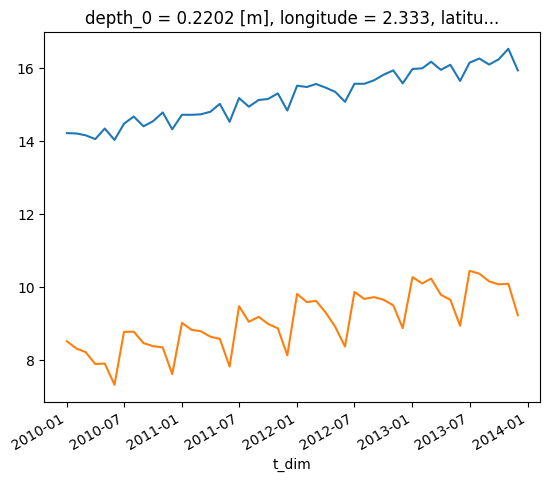
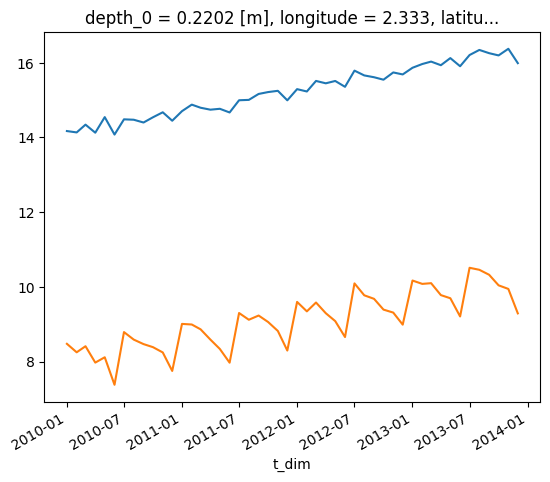
Updated General notebook pages from coast repo.

diff --git a/content/en/docs/Examples/Notebooks/General/seasonal_decomp_example.md b/content/en/docs/Examples/Notebooks/General/seasonal_decomp_example.md
@@ -86,7 +86,7 @@ temperature[0,0,:,:].plot()
 
 
 
-    <matplotlib.collections.QuadMesh at 0x7f3230767eb0>
+    <matplotlib.collections.QuadMesh at 0x7fad688f7370>
 
 
 
@@ -107,7 +107,7 @@ temperature[:,0,200,200].plot()
 
 
 
-    [<matplotlib.lines.Line2D at 0x7f32305b16a0>]
+    [<matplotlib.lines.Line2D at 0x7fad68732be0>]
 
 
 
@@ -513,7 +513,7 @@ Dimensions without coordinates: z_dim, y_dim, x_dim
 Data variables:
     trend      (t_dim, z_dim, y_dim, x_dim) float64 nan nan nan ... nan nan nan
     seasonal   (t_dim, z_dim, y_dim, x_dim) float64 nan nan nan ... nan nan nan
-    residual   (t_dim, z_dim, y_dim, x_dim) float64 nan nan nan ... nan nan nan</pre><div class='xr-wrap' style='display:none'><div class='xr-header'><div class='xr-obj-type'>xarray.Dataset</div></div><ul class='xr-sections'><li class='xr-section-item'><input id='section-5b4063de-c1c6-4285-b1a2-b9552f2a18a7' class='xr-section-summary-in' type='checkbox' disabled ><label for='section-5b4063de-c1c6-4285-b1a2-b9552f2a18a7' class='xr-section-summary'  title='Expand/collapse section'>Dimensions:</label><div class='xr-section-inline-details'><ul class='xr-dim-list'><li><span class='xr-has-index'>t_dim</span>: 48</li><li><span>z_dim</span>: 2</li><li><span>y_dim</span>: 375</li><li><span>x_dim</span>: 297</li></ul></div><div class='xr-section-details'></div></li><li class='xr-section-item'><input id='section-a6a2502f-92a2-48fd-a506-b02629f9eb0a' class='xr-section-summary-in' type='checkbox'  checked><label for='section-a6a2502f-92a2-48fd-a506-b02629f9eb0a' class='xr-section-summary' >Coordinates: <span>(4)</span></label><div class='xr-section-inline-details'></div><div class='xr-section-details'><ul class='xr-var-list'><li class='xr-var-item'><div class='xr-var-name'><span class='xr-has-index'>t_dim</span></div><div class='xr-var-dims'>(t_dim)</div><div class='xr-var-dtype'>datetime64[ns]</div><div class='xr-var-preview xr-preview'>2010-01-01 ... 2013-12-01</div><input id='attrs-55a93f69-85a4-47ee-a191-5650a3818a13' class='xr-var-attrs-in' type='checkbox' disabled><label for='attrs-55a93f69-85a4-47ee-a191-5650a3818a13' title='Show/Hide attributes'><svg class='icon xr-icon-file-text2'><use xlink:href='#icon-file-text2'></use></svg></label><input id='data-7fc3d4ff-62d7-4826-a5ba-f9428791652c' class='xr-var-data-in' type='checkbox'><label for='data-7fc3d4ff-62d7-4826-a5ba-f9428791652c' title='Show/Hide data repr'><svg class='icon xr-icon-database'><use xlink:href='#icon-database'></use></svg></label><div class='xr-var-attrs'><dl class='xr-attrs'></dl></div><div class='xr-var-data'><pre>array([&#x27;2010-01-01T00:00:00.000000000&#x27;, &#x27;2010-02-01T00:00:00.000000000&#x27;,
+    residual   (t_dim, z_dim, y_dim, x_dim) float64 nan nan nan ... nan nan nan</pre><div class='xr-wrap' style='display:none'><div class='xr-header'><div class='xr-obj-type'>xarray.Dataset</div></div><ul class='xr-sections'><li class='xr-section-item'><input id='section-9a53614a-b17a-4e11-8e49-2e4498afccb7' class='xr-section-summary-in' type='checkbox' disabled ><label for='section-9a53614a-b17a-4e11-8e49-2e4498afccb7' class='xr-section-summary'  title='Expand/collapse section'>Dimensions:</label><div class='xr-section-inline-details'><ul class='xr-dim-list'><li><span class='xr-has-index'>t_dim</span>: 48</li><li><span>z_dim</span>: 2</li><li><span>y_dim</span>: 375</li><li><span>x_dim</span>: 297</li></ul></div><div class='xr-section-details'></div></li><li class='xr-section-item'><input id='section-b674655c-183f-48c9-b9ae-85b54980f654' class='xr-section-summary-in' type='checkbox'  checked><label for='section-b674655c-183f-48c9-b9ae-85b54980f654' class='xr-section-summary' >Coordinates: <span>(4)</span></label><div class='xr-section-inline-details'></div><div class='xr-section-details'><ul class='xr-var-list'><li class='xr-var-item'><div class='xr-var-name'><span class='xr-has-index'>t_dim</span></div><div class='xr-var-dims'>(t_dim)</div><div class='xr-var-dtype'>datetime64[ns]</div><div class='xr-var-preview xr-preview'>2010-01-01 ... 2013-12-01</div><input id='attrs-3d59f854-8b32-4ab8-88f6-3f6c4d7606b1' class='xr-var-attrs-in' type='checkbox' disabled><label for='attrs-3d59f854-8b32-4ab8-88f6-3f6c4d7606b1' title='Show/Hide attributes'><svg class='icon xr-icon-file-text2'><use xlink:href='#icon-file-text2'></use></svg></label><input id='data-1ee12c3d-2f89-483e-bb2e-12c6e25556ea' class='xr-var-data-in' type='checkbox'><label for='data-1ee12c3d-2f89-483e-bb2e-12c6e25556ea' title='Show/Hide data repr'><svg class='icon xr-icon-database'><use xlink:href='#icon-database'></use></svg></label><div class='xr-var-attrs'><dl class='xr-attrs'></dl></div><div class='xr-var-data'><pre>array([&#x27;2010-01-01T00:00:00.000000000&#x27;, &#x27;2010-02-01T00:00:00.000000000&#x27;,
        &#x27;2010-03-01T00:00:00.000000000&#x27;, &#x27;2010-04-01T00:00:00.000000000&#x27;,
        &#x27;2010-05-01T00:00:00.000000000&#x27;, &#x27;2010-06-01T00:00:00.000000000&#x27;,
        &#x27;2010-07-01T00:00:00.000000000&#x27;, &#x27;2010-08-01T00:00:00.000000000&#x27;,
@@ -537,7 +537,7 @@ Data variables:
        &#x27;2013-07-01T00:00:00.000000000&#x27;, &#x27;2013-08-01T00:00:00.000000000&#x27;,
        &#x27;2013-09-01T00:00:00.000000000&#x27;, &#x27;2013-10-01T00:00:00.000000000&#x27;,
        &#x27;2013-11-01T00:00:00.000000000&#x27;, &#x27;2013-12-01T00:00:00.000000000&#x27;],
-      dtype=&#x27;datetime64[ns]&#x27;)</pre></div></li><li class='xr-var-item'><div class='xr-var-name'><span>depth_0</span></div><div class='xr-var-dims'>(z_dim, y_dim, x_dim)</div><div class='xr-var-dtype'>float32</div><div class='xr-var-preview xr-preview'>0.5 0.5 0.5 0.5 ... 1.5 1.5 1.5 1.5</div><input id='attrs-10650ccd-004a-4578-b836-8634a7bf8c04' class='xr-var-attrs-in' type='checkbox' ><label for='attrs-10650ccd-004a-4578-b836-8634a7bf8c04' title='Show/Hide attributes'><svg class='icon xr-icon-file-text2'><use xlink:href='#icon-file-text2'></use></svg></label><input id='data-5a8c1067-9d22-4823-8921-8b444fb62f56' class='xr-var-data-in' type='checkbox'><label for='data-5a8c1067-9d22-4823-8921-8b444fb62f56' title='Show/Hide data repr'><svg class='icon xr-icon-database'><use xlink:href='#icon-database'></use></svg></label><div class='xr-var-attrs'><dl class='xr-attrs'><dt><span>units :</span></dt><dd>m</dd><dt><span>standard_name :</span></dt><dd>Depth at time zero on the t-grid</dd></dl></div><div class='xr-var-data'><pre>array([[[0.5       , 0.5       , 0.5       , ..., 0.5       ,
+      dtype=&#x27;datetime64[ns]&#x27;)</pre></div></li><li class='xr-var-item'><div class='xr-var-name'><span>depth_0</span></div><div class='xr-var-dims'>(z_dim, y_dim, x_dim)</div><div class='xr-var-dtype'>float32</div><div class='xr-var-preview xr-preview'>0.5 0.5 0.5 0.5 ... 1.5 1.5 1.5 1.5</div><input id='attrs-328dbbc6-a132-4e90-bfa0-b6403dd4140d' class='xr-var-attrs-in' type='checkbox' ><label for='attrs-328dbbc6-a132-4e90-bfa0-b6403dd4140d' title='Show/Hide attributes'><svg class='icon xr-icon-file-text2'><use xlink:href='#icon-file-text2'></use></svg></label><input id='data-8e2b34e1-20d1-4df3-bc96-fc9ef545d17d' class='xr-var-data-in' type='checkbox'><label for='data-8e2b34e1-20d1-4df3-bc96-fc9ef545d17d' title='Show/Hide data repr'><svg class='icon xr-icon-database'><use xlink:href='#icon-database'></use></svg></label><div class='xr-var-attrs'><dl class='xr-attrs'><dt><span>units :</span></dt><dd>m</dd><dt><span>standard_name :</span></dt><dd>Depth at time zero on the t-grid</dd></dl></div><div class='xr-var-data'><pre>array([[[0.5       , 0.5       , 0.5       , ..., 0.5       ,
          0.5       , 0.5       ],
         [0.5       , 0.4975586 , 0.4975586 , ..., 0.10009766,
          0.10009766, 0.5       ],
@@ -563,7 +563,7 @@ Data variables:
         [1.5       , 0.30029297, 0.30029297, ..., 0.30029297,
          0.30029297, 1.5       ],
         [1.5       , 1.5       , 1.5       , ..., 1.5       ,
-         1.5       , 1.5       ]]], dtype=float32)</pre></div></li><li class='xr-var-item'><div class='xr-var-name'><span>longitude</span></div><div class='xr-var-dims'>(y_dim, x_dim)</div><div class='xr-var-dtype'>float32</div><div class='xr-var-preview xr-preview'>-19.89 -19.78 -19.67 ... 12.89 13.0</div><input id='attrs-0774c421-c2a1-4bdf-91bb-cef4fae1c55b' class='xr-var-attrs-in' type='checkbox' disabled><label for='attrs-0774c421-c2a1-4bdf-91bb-cef4fae1c55b' title='Show/Hide attributes'><svg class='icon xr-icon-file-text2'><use xlink:href='#icon-file-text2'></use></svg></label><input id='data-5a41db67-5cb4-4c59-b3b5-b7672e91c238' class='xr-var-data-in' type='checkbox'><label for='data-5a41db67-5cb4-4c59-b3b5-b7672e91c238' title='Show/Hide data repr'><svg class='icon xr-icon-database'><use xlink:href='#icon-database'></use></svg></label><div class='xr-var-attrs'><dl class='xr-attrs'></dl></div><div class='xr-var-data'><pre>array([[-19.888672, -19.777344, -19.666992, ...,  12.777344,  12.888672,
+         1.5       , 1.5       ]]], dtype=float32)</pre></div></li><li class='xr-var-item'><div class='xr-var-name'><span>longitude</span></div><div class='xr-var-dims'>(y_dim, x_dim)</div><div class='xr-var-dtype'>float32</div><div class='xr-var-preview xr-preview'>-19.89 -19.78 -19.67 ... 12.89 13.0</div><input id='attrs-7f60222c-3e94-4bce-b18e-4366d7eba874' class='xr-var-attrs-in' type='checkbox' disabled><label for='attrs-7f60222c-3e94-4bce-b18e-4366d7eba874' title='Show/Hide attributes'><svg class='icon xr-icon-file-text2'><use xlink:href='#icon-file-text2'></use></svg></label><input id='data-36b18d7b-c2fe-4b39-80c2-059b82d08724' class='xr-var-data-in' type='checkbox'><label for='data-36b18d7b-c2fe-4b39-80c2-059b82d08724' title='Show/Hide data repr'><svg class='icon xr-icon-database'><use xlink:href='#icon-database'></use></svg></label><div class='xr-var-attrs'><dl class='xr-attrs'></dl></div><div class='xr-var-data'><pre>array([[-19.888672, -19.777344, -19.666992, ...,  12.777344,  12.888672,
          13.      ],
        [-19.888672, -19.777344, -19.666992, ...,  12.777344,  12.888672,
          13.      ],
@@ -575,7 +575,7 @@ Data variables:
        [-19.888672, -19.777344, -19.666992, ...,  12.777344,  12.888672,
          13.      ],
        [-19.888672, -19.777344, -19.666992, ...,  12.777344,  12.888672,
-         13.      ]], dtype=float32)</pre></div></li><li class='xr-var-item'><div class='xr-var-name'><span>latitude</span></div><div class='xr-var-dims'>(y_dim, x_dim)</div><div class='xr-var-dtype'>float32</div><div class='xr-var-preview xr-preview'>40.07 40.07 40.07 ... 65.0 65.0</div><input id='attrs-09a5b280-82fe-40dc-9d99-70ef05295f55' class='xr-var-attrs-in' type='checkbox' disabled><label for='attrs-09a5b280-82fe-40dc-9d99-70ef05295f55' title='Show/Hide attributes'><svg class='icon xr-icon-file-text2'><use xlink:href='#icon-file-text2'></use></svg></label><input id='data-8034681c-4ce4-40e9-8181-998c7b543cbf' class='xr-var-data-in' type='checkbox'><label for='data-8034681c-4ce4-40e9-8181-998c7b543cbf' title='Show/Hide data repr'><svg class='icon xr-icon-database'><use xlink:href='#icon-database'></use></svg></label><div class='xr-var-attrs'><dl class='xr-attrs'></dl></div><div class='xr-var-data'><pre>array([[40.066406, 40.066406, 40.066406, ..., 40.066406, 40.066406,
+         13.      ]], dtype=float32)</pre></div></li><li class='xr-var-item'><div class='xr-var-name'><span>latitude</span></div><div class='xr-var-dims'>(y_dim, x_dim)</div><div class='xr-var-dtype'>float32</div><div class='xr-var-preview xr-preview'>40.07 40.07 40.07 ... 65.0 65.0</div><input id='attrs-10417e07-8bd2-4e39-9b8f-83a105df66ca' class='xr-var-attrs-in' type='checkbox' disabled><label for='attrs-10417e07-8bd2-4e39-9b8f-83a105df66ca' title='Show/Hide attributes'><svg class='icon xr-icon-file-text2'><use xlink:href='#icon-file-text2'></use></svg></label><input id='data-87c465fe-e360-4a72-bd39-715e9689cc9f' class='xr-var-data-in' type='checkbox'><label for='data-87c465fe-e360-4a72-bd39-715e9689cc9f' title='Show/Hide data repr'><svg class='icon xr-icon-database'><use xlink:href='#icon-database'></use></svg></label><div class='xr-var-attrs'><dl class='xr-attrs'></dl></div><div class='xr-var-data'><pre>array([[40.066406, 40.066406, 40.066406, ..., 40.066406, 40.066406,
         40.066406],
        [40.13379 , 40.13379 , 40.13379 , ..., 40.13379 , 40.13379 ,
         40.13379 ],
@@ -587,11 +587,11 @@ Data variables:
        [64.93457 , 64.93457 , 64.93457 , ..., 64.93457 , 64.93457 ,
         64.93457 ],
        [65.00098 , 65.00098 , 65.00098 , ..., 65.00098 , 65.00098 ,
-        65.00098 ]], dtype=float32)</pre></div></li></ul></div></li><li class='xr-section-item'><input id='section-19c1b647-0f5a-4be5-9ab6-03a143c9d129' class='xr-section-summary-in' type='checkbox'  checked><label for='section-19c1b647-0f5a-4be5-9ab6-03a143c9d129' class='xr-section-summary' >Data variables: <span>(3)</span></label><div class='xr-section-inline-details'></div><div class='xr-section-details'><ul class='xr-var-list'><li class='xr-var-item'><div class='xr-var-name'><span>trend</span></div><div class='xr-var-dims'>(t_dim, z_dim, y_dim, x_dim)</div><div class='xr-var-dtype'>float64</div><div class='xr-var-preview xr-preview'>nan nan nan nan ... nan nan nan nan</div><input id='attrs-649c2ddc-0445-4381-867e-8a8f38172605' class='xr-var-attrs-in' type='checkbox' disabled><label for='attrs-649c2ddc-0445-4381-867e-8a8f38172605' title='Show/Hide attributes'><svg class='icon xr-icon-file-text2'><use xlink:href='#icon-file-text2'></use></svg></label><input id='data-1b1a5c30-c3bb-416b-8e98-1166556a6672' class='xr-var-data-in' type='checkbox'><label for='data-1b1a5c30-c3bb-416b-8e98-1166556a6672' title='Show/Hide data repr'><svg class='icon xr-icon-database'><use xlink:href='#icon-database'></use></svg></label><div class='xr-var-attrs'><dl class='xr-attrs'></dl></div><div class='xr-var-data'><pre>array([[[[        nan,         nan,         nan, ...,         nan,
+        65.00098 ]], dtype=float32)</pre></div></li></ul></div></li><li class='xr-section-item'><input id='section-8f862f24-df27-46d8-80e7-75d55375ce6d' class='xr-section-summary-in' type='checkbox'  checked><label for='section-8f862f24-df27-46d8-80e7-75d55375ce6d' class='xr-section-summary' >Data variables: <span>(3)</span></label><div class='xr-section-inline-details'></div><div class='xr-section-details'><ul class='xr-var-list'><li class='xr-var-item'><div class='xr-var-name'><span>trend</span></div><div class='xr-var-dims'>(t_dim, z_dim, y_dim, x_dim)</div><div class='xr-var-dtype'>float64</div><div class='xr-var-preview xr-preview'>nan nan nan nan ... nan nan nan nan</div><input id='attrs-f745887b-48f5-48a1-abe2-ff3b0f85e9ae' class='xr-var-attrs-in' type='checkbox' disabled><label for='attrs-f745887b-48f5-48a1-abe2-ff3b0f85e9ae' title='Show/Hide attributes'><svg class='icon xr-icon-file-text2'><use xlink:href='#icon-file-text2'></use></svg></label><input id='data-b22c8040-c77f-43cd-8801-0250910d86e5' class='xr-var-data-in' type='checkbox'><label for='data-b22c8040-c77f-43cd-8801-0250910d86e5' title='Show/Hide data repr'><svg class='icon xr-icon-database'><use xlink:href='#icon-database'></use></svg></label><div class='xr-var-attrs'><dl class='xr-attrs'></dl></div><div class='xr-var-data'><pre>array([[[[        nan,         nan,         nan, ...,         nan,
                   nan,         nan],
-         [        nan, 15.26907711, 15.2658219 , ...,         nan,
+         [        nan, 15.41700162, 15.41374641, ...,         nan,
                   nan,         nan],
-         [        nan, 15.2580094 , 15.42581539, ...,         nan,
+         [        nan, 15.40593391, 15.5737399 , ...,         nan,
                   nan,         nan],
          ...,
          [        nan,         nan,         nan, ...,         nan,
@@ -603,9 +603,9 @@ Data variables:
 
         [[        nan,         nan,         nan, ...,         nan,
                   nan,         nan],
-         [        nan, 15.26810054, 15.2650081 , ...,         nan,
+         [        nan, 15.41602506, 15.41293261, ...,         nan,
                   nan,         nan],
-         [        nan, 15.25687007, 15.42972164, ...,         nan,
+         [        nan, 15.40479459, 15.57764615, ...,         nan,
                   nan,         nan],
 ...
          [        nan,         nan,         nan, ...,         nan,
@@ -617,9 +617,9 @@ Data variables:
 
         [[        nan,         nan,         nan, ...,         nan,
                   nan,         nan],
-         [        nan, 17.48501602, 17.48192357, ...,         nan,
+         [        nan, 17.6710319 , 17.66793945, ...,         nan,
                   nan,         nan],
-         [        nan, 17.47378555, 17.64663711, ...,         nan,
+         [        nan, 17.65980143, 17.83265299, ...,         nan,
                   nan,         nan],
          ...,
          [        nan,         nan,         nan, ...,         nan,
@@ -627,11 +627,11 @@ Data variables:
          [        nan,         nan,         nan, ...,         nan,
                   nan,         nan],
          [        nan,         nan,         nan, ...,         nan,
-                  nan,         nan]]]])</pre></div></li><li class='xr-var-item'><div class='xr-var-name'><span>seasonal</span></div><div class='xr-var-dims'>(t_dim, z_dim, y_dim, x_dim)</div><div class='xr-var-dtype'>float64</div><div class='xr-var-preview xr-preview'>nan nan nan nan ... nan nan nan nan</div><input id='attrs-5ba62877-33c5-425a-8517-420987369a21' class='xr-var-attrs-in' type='checkbox' disabled><label for='attrs-5ba62877-33c5-425a-8517-420987369a21' title='Show/Hide attributes'><svg class='icon xr-icon-file-text2'><use xlink:href='#icon-file-text2'></use></svg></label><input id='data-0233bfa5-963c-4443-8e5f-a96a1a2252ea' class='xr-var-data-in' type='checkbox'><label for='data-0233bfa5-963c-4443-8e5f-a96a1a2252ea' title='Show/Hide data repr'><svg class='icon xr-icon-database'><use xlink:href='#icon-database'></use></svg></label><div class='xr-var-attrs'><dl class='xr-attrs'></dl></div><div class='xr-var-data'><pre>array([[[[        nan,         nan,         nan, ...,         nan,
+                  nan,         nan]]]])</pre></div></li><li class='xr-var-item'><div class='xr-var-name'><span>seasonal</span></div><div class='xr-var-dims'>(t_dim, z_dim, y_dim, x_dim)</div><div class='xr-var-dtype'>float64</div><div class='xr-var-preview xr-preview'>nan nan nan nan ... nan nan nan nan</div><input id='attrs-b651fbf0-8aae-4b2c-b82d-a3c873fb40a3' class='xr-var-attrs-in' type='checkbox' disabled><label for='attrs-b651fbf0-8aae-4b2c-b82d-a3c873fb40a3' title='Show/Hide attributes'><svg class='icon xr-icon-file-text2'><use xlink:href='#icon-file-text2'></use></svg></label><input id='data-2dbe69a7-c7f6-4b63-9810-5de23d256f30' class='xr-var-data-in' type='checkbox'><label for='data-2dbe69a7-c7f6-4b63-9810-5de23d256f30' title='Show/Hide data repr'><svg class='icon xr-icon-database'><use xlink:href='#icon-database'></use></svg></label><div class='xr-var-attrs'><dl class='xr-attrs'></dl></div><div class='xr-var-data'><pre>array([[[[        nan,         nan,         nan, ...,         nan,
                   nan,         nan],
-         [        nan,  0.08800621,  0.00434735, ...,         nan,
+         [        nan,  0.04289547, -0.04076339, ...,         nan,
                   nan,         nan],
-         [        nan,  0.11372235,  0.3433773 , ...,         nan,
+         [        nan,  0.06861161,  0.29826656, ...,         nan,
                   nan,         nan],
          ...,
          [        nan,         nan,         nan, ...,         nan,
@@ -643,9 +643,9 @@ Data variables:
 
         [[        nan,         nan,         nan, ...,         nan,
                   nan,         nan],
-         [        nan,  0.07726402, -0.00655759, ...,         nan,
+         [        nan,  0.03215328, -0.05166834, ...,         nan,
                   nan,         nan],
-         [        nan,  0.10314293,  0.33947105, ...,         nan,
+         [        nan,  0.05803218,  0.29436031, ...,         nan,
                   nan,         nan],
 ...
          [        nan,         nan,         nan, ...,         nan,
@@ -657,9 +657,9 @@ Data variables:
 
         [[        nan,         nan,         nan, ...,         nan,
                   nan,         nan],
-         [        nan, -0.42114183, -0.4043775 , ...,         nan,
+         [        nan, -0.29047158, -0.27370725, ...,         nan,
                   nan,         nan],
-         [        nan, -0.43139573, -0.78002854, ...,         nan,
+         [        nan, -0.30072548, -0.64935829, ...,         nan,
                   nan,         nan],
          ...,
          [        nan,         nan,         nan, ...,         nan,
@@ -667,47 +667,47 @@ Data variables:
          [        nan,         nan,         nan, ...,         nan,
                   nan,         nan],
          [        nan,         nan,         nan, ...,         nan,
-                  nan,         nan]]]])</pre></div></li><li class='xr-var-item'><div class='xr-var-name'><span>residual</span></div><div class='xr-var-dims'>(t_dim, z_dim, y_dim, x_dim)</div><div class='xr-var-dtype'>float64</div><div class='xr-var-preview xr-preview'>nan nan nan nan ... nan nan nan nan</div><input id='attrs-c5cc9e08-e2c9-46c0-ad40-c442f7d20dee' class='xr-var-attrs-in' type='checkbox' disabled><label for='attrs-c5cc9e08-e2c9-46c0-ad40-c442f7d20dee' title='Show/Hide attributes'><svg class='icon xr-icon-file-text2'><use xlink:href='#icon-file-text2'></use></svg></label><input id='data-96f3c658-5591-43a0-9311-7293357fb867' class='xr-var-data-in' type='checkbox'><label for='data-96f3c658-5591-43a0-9311-7293357fb867' title='Show/Hide data repr'><svg class='icon xr-icon-database'><use xlink:href='#icon-database'></use></svg></label><div class='xr-var-attrs'><dl class='xr-attrs'></dl></div><div class='xr-var-data'><pre>array([[[[       nan,        nan,        nan, ...,        nan,
-                 nan,        nan],
-         [       nan, 0.10485143, 0.10485143, ...,        nan,
-                 nan,        nan],
-         [       nan, 0.10485143, 0.10485143, ...,        nan,
-                 nan,        nan],
+                  nan,         nan]]]])</pre></div></li><li class='xr-var-item'><div class='xr-var-name'><span>residual</span></div><div class='xr-var-dims'>(t_dim, z_dim, y_dim, x_dim)</div><div class='xr-var-dtype'>float64</div><div class='xr-var-preview xr-preview'>nan nan nan nan ... nan nan nan nan</div><input id='attrs-74a29057-3330-4243-94eb-20cde5d93fae' class='xr-var-attrs-in' type='checkbox' disabled><label for='attrs-74a29057-3330-4243-94eb-20cde5d93fae' title='Show/Hide attributes'><svg class='icon xr-icon-file-text2'><use xlink:href='#icon-file-text2'></use></svg></label><input id='data-fde2e497-d44a-41f6-b590-38038f1096ed' class='xr-var-data-in' type='checkbox'><label for='data-fde2e497-d44a-41f6-b590-38038f1096ed' title='Show/Hide data repr'><svg class='icon xr-icon-database'><use xlink:href='#icon-database'></use></svg></label><div class='xr-var-attrs'><dl class='xr-attrs'></dl></div><div class='xr-var-data'><pre>array([[[[        nan,         nan,         nan, ...,         nan,
+                  nan,         nan],
+         [        nan, -0.04164842, -0.04164842, ...,         nan,
+                  nan,         nan],
+         [        nan, -0.04164842, -0.04164842, ...,         nan,
+                  nan,         nan],
          ...,
-         [       nan,        nan,        nan, ...,        nan,
-                 nan,        nan],
-         [       nan,        nan,        nan, ...,        nan,
-                 nan,        nan],
-         [       nan,        nan,        nan, ...,        nan,
-                 nan,        nan]],
+         [        nan,         nan,         nan, ...,         nan,
+                  nan,         nan],
+         [        nan,         nan,         nan, ...,         nan,
+                  nan,         nan],
+         [        nan,         nan,         nan, ...,         nan,
+                  nan,         nan]],
 
-        [[       nan,        nan,        nan, ...,        nan,
-                 nan,        nan],
-         [       nan, 0.10485143, 0.10485143, ...,        nan,
-                 nan,        nan],
-         [       nan, 0.10485143, 0.10485143, ...,        nan,
-                 nan,        nan],
+        [[        nan,         nan,         nan, ...,         nan,
+                  nan,         nan],
+         [        nan, -0.04164842, -0.04164842, ...,         nan,
+                  nan,         nan],
+         [        nan, -0.04164842, -0.04164842, ...,         nan,
+                  nan,         nan],
 ...
-         [       nan,        nan,        nan, ...,        nan,
-                 nan,        nan],
-         [       nan,        nan,        nan, ...,        nan,
-                 nan,        nan],
-         [       nan,        nan,        nan, ...,        nan,
-                 nan,        nan]],
+         [        nan,         nan,         nan, ...,         nan,
+                  nan,         nan],
+         [        nan,         nan,         nan, ...,         nan,
+                  nan,         nan],
+         [        nan,         nan,         nan, ...,         nan,
+                  nan,         nan]],
 
-        [[       nan,        nan,        nan, ...,        nan,
-                 nan,        nan],
-         [       nan, 0.07008772, 0.07008772, ...,        nan,
-                 nan,        nan],
-         [       nan, 0.07008772, 0.07008772, ...,        nan,
-                 nan,        nan],
+        [[        nan,         nan,         nan, ...,         nan,
+                  nan,         nan],
+         [        nan, -0.19018953, -0.19018953, ...,         nan,
+                  nan,         nan],
+         [        nan, -0.19018953, -0.19018953, ...,         nan,
+                  nan,         nan],
          ...,
-         [       nan,        nan,        nan, ...,        nan,
-                 nan,        nan],
-         [       nan,        nan,        nan, ...,        nan,
-                 nan,        nan],
-         [       nan,        nan,        nan, ...,        nan,
-                 nan,        nan]]]])</pre></div></li></ul></div></li><li class='xr-section-item'><input id='section-fb224da0-2238-4502-90f1-ef82cc858c6d' class='xr-section-summary-in' type='checkbox' disabled ><label for='section-fb224da0-2238-4502-90f1-ef82cc858c6d' class='xr-section-summary'  title='Expand/collapse section'>Attributes: <span>(0)</span></label><div class='xr-section-inline-details'></div><div class='xr-section-details'><dl class='xr-attrs'></dl></div></li></ul></div></div>
+         [        nan,         nan,         nan, ...,         nan,
+                  nan,         nan],
+         [        nan,         nan,         nan, ...,         nan,
+                  nan,         nan],
+         [        nan,         nan,         nan, ...,         nan,
+                  nan,         nan]]]])</pre></div></li></ul></div></li><li class='xr-section-item'><input id='section-dc0ab291-a9b9-4442-8876-8411d7e5cdf6' class='xr-section-summary-in' type='checkbox' disabled ><label for='section-dc0ab291-a9b9-4442-8876-8411d7e5cdf6' class='xr-section-summary'  title='Expand/collapse section'>Attributes: <span>(0)</span></label><div class='xr-section-inline-details'></div><div class='xr-section-details'><dl class='xr-attrs'></dl></div></li></ul></div></div>
 
 
 
@@ -726,9 +726,9 @@ temp_decomp[:,:,0,200,200].plot(hue="component")
 
 
 
-    [<matplotlib.lines.Line2D at 0x7f3230464fa0>,
-     <matplotlib.lines.Line2D at 0x7f3230464a90>,
-     <matplotlib.lines.Line2D at 0x7f3230464df0>]
+    [<matplotlib.lines.Line2D at 0x7fad68685970>,
+     <matplotlib.lines.Line2D at 0x7fad685d7ee0>,
+     <matplotlib.lines.Line2D at 0x7fad685d7f10>]
 
 
 

diff --git a/content/en/docs/Examples/Notebooks/General/eof_tutorial.md b/content/en/docs/Examples/Notebooks/General/eof_tutorial.md
@@ -70,7 +70,7 @@ eof_data.EOF.sel(mode=[1,2,3,4]).plot.pcolormesh(col='mode',col_wrap=2,x='longit
 
 
 
-    <xarray.plot.facetgrid.FacetGrid at 0x7fbf7a9b2040>
+    <xarray.plot.facetgrid.FacetGrid at 0x7f4b71669130>
 
 
 
@@ -88,7 +88,7 @@ eof_data.temporal_proj.sel(mode=[1,2,3,4]).plot(col='mode',col_wrap=2,x='time')
 
 
 
-    <xarray.plot.facetgrid.FacetGrid at 0x7fbf7844d910>
+    <xarray.plot.facetgrid.FacetGrid at 0x7f4b70106eb0>
 
 
 
